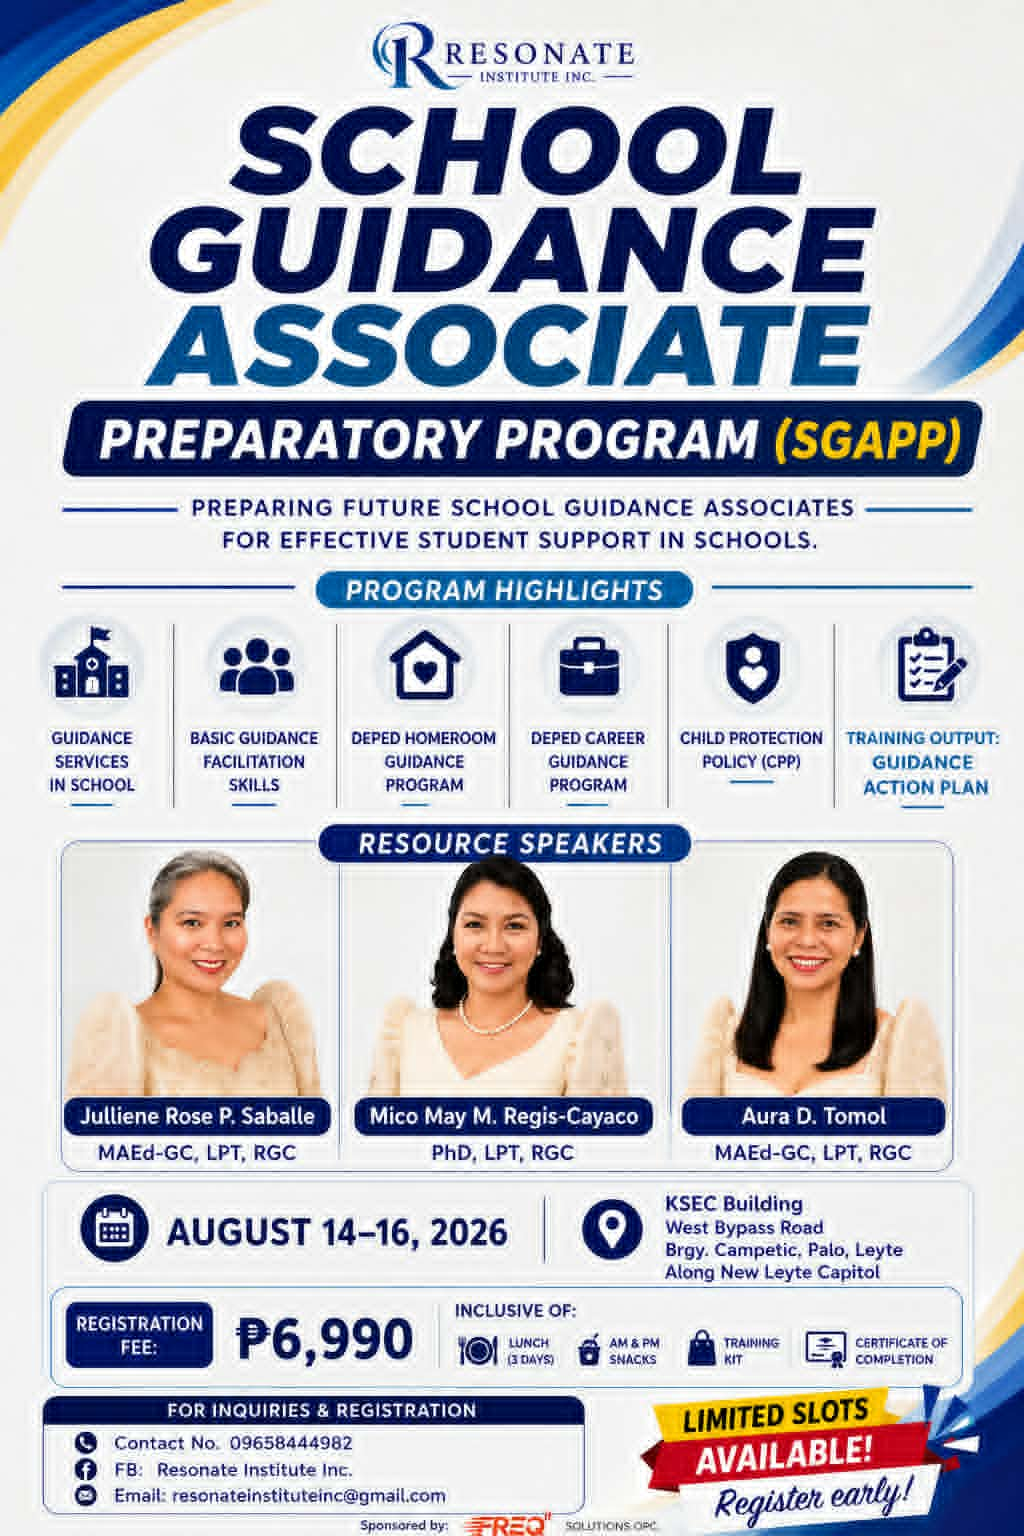
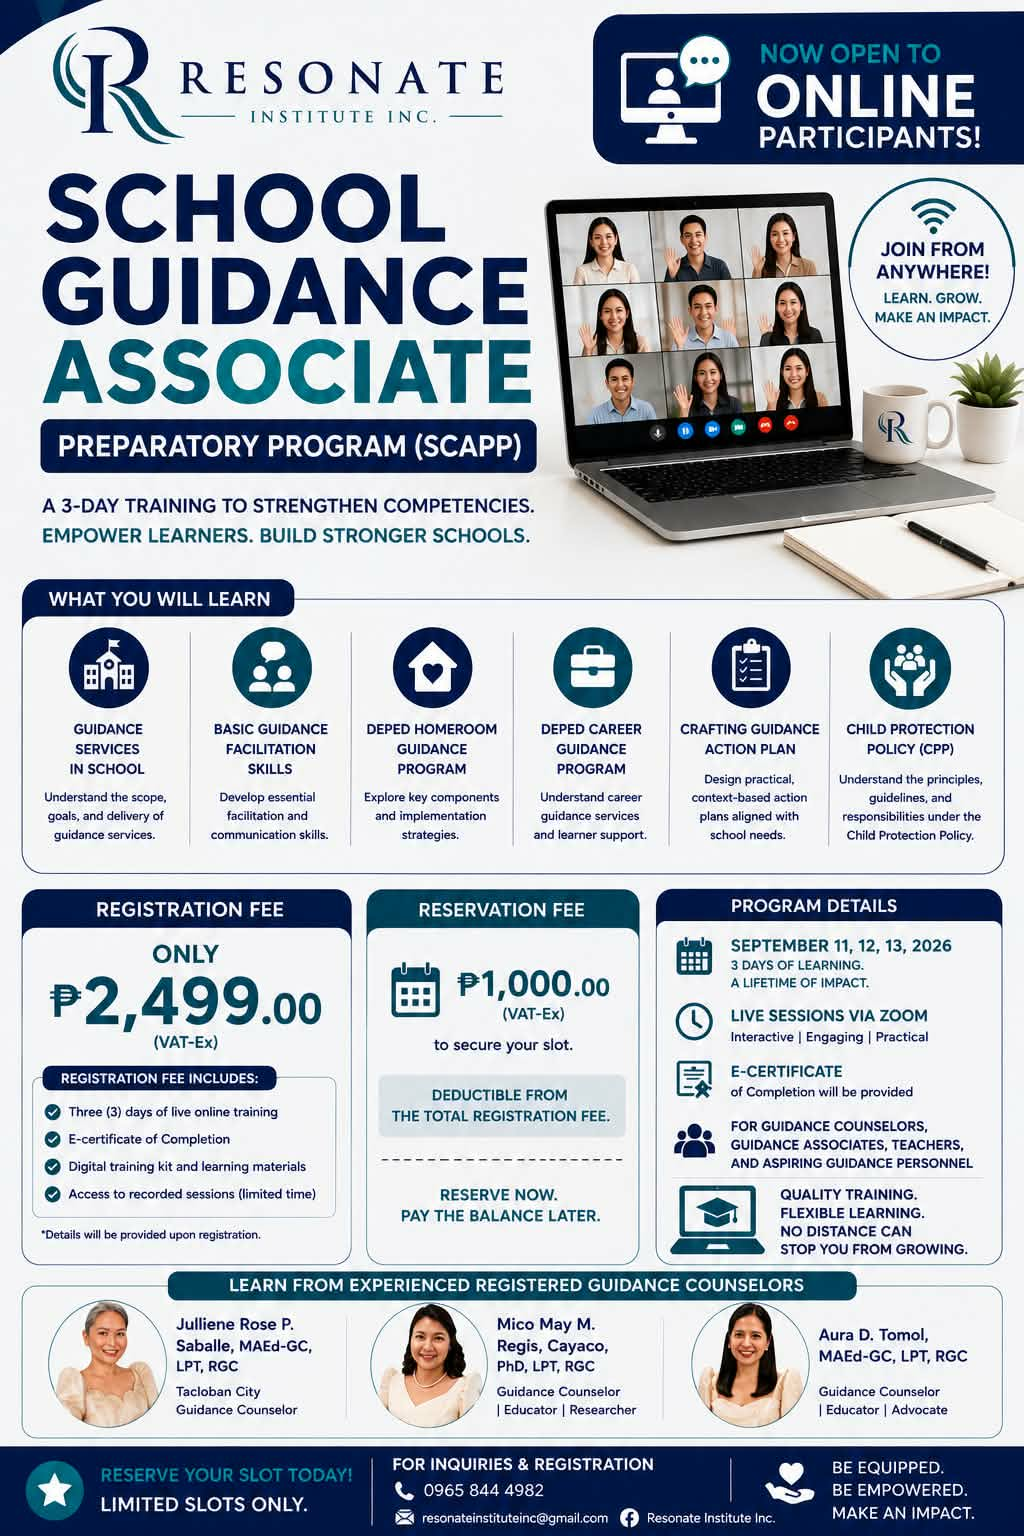
edit some info

diff --git a/app/(guest)/page.tsx b/app/(guest)/page.tsx
@@ -24,12 +24,12 @@ export const RegistrationCategory = {
     REGULAR_RATE: {
         id: 1,
         name: 'Regular Rate',
-        amount: '₱6,990.00 (VAT-EX)',
+        amount: '₱2,499.00 (VAT-EX)',
     },
     RESERVATION: {
         id: 2,
         name: 'Reservation',
-        amount: '₱2,000.00 (VAT-EX)',
+        amount: '₱1,000.00 (VAT-EX)',
     },
     EARLY_BIRD_RATE: {
         id: 3,
